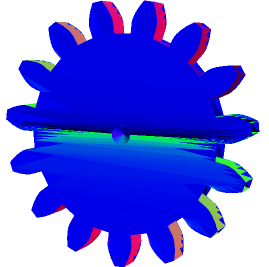
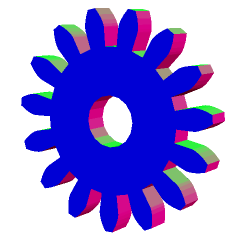
improved CSG examples

diff --git a/sources/ogl_csg1.js b/sources/ogl_csg1.js
@@ -66,49 +66,46 @@ e => a.intersect(b)</pre>
     let final = a.union(b);
 
     let positions = [];
-    let normals = [];
-    let uvs = [];
+    //let normals = [];
+    //let uvs = [];
 
     function csgshape() {
         positions = [];
-        normals = [];
-        uvs = [];
-        final.polygons.forEach(items => {
-            let last = null;
-            items.vertices.forEach((vertex, idx) => {
-                if (idx == 0) {
-                    last = vertex;
+        //normals = [];
+        //uvs = [];
+
+        final.polygons.forEach((p) => {
+            let numvertices = p.vertices.length;
+            for (let i = 0; i < numvertices - 2; i++) {
+
+                for (let v = 0; v < 3; v++) {
+                    let vv = v + ((v > 0) ? i : 0);
+                    let vertexpos = p.vertices[vv].pos;
+
+                    positions.push(vertexpos._x);
+                    positions.push(vertexpos._y);
+                    positions.push(vertexpos._z);
                 }
-                positions.push(vertex.pos.x);
-                positions.push(vertex.pos.y);
-                positions.push(vertex.pos.z);
-                if (vertex.normal) {
-                    normals.push(vertex.normal.x);
-                    normals.push(vertex.normal.y);
-                    normals.push(vertex.normal.z);
-                }
-            });
-            positions.push(last.pos.x);
-            positions.push(last.pos.y);
-            positions.push(last.pos.z);
-            if (last.normal) {
-                normals.push(last.normal.x);
-                normals.push(last.normal.y);
-                normals.push(last.normal.z);
             }
+
         });
     }
 
-    csgshape();
+    function regenerateShape() {
+        csgshape();
+        geometry = new Geometry(gl, {
+            position: {size: 3, data: new Float32Array(positions)},
+            //uv: {size: 2, data: new Float32Array(uvs)},
+            //normal: {size: 3, data: new Float32Array(normals)},
+        });
+        if (mesh != undefined) {
+            scene.removeChild(mesh);
+        }
+        mesh = new Mesh(gl, {mode: gl[settings.rendering], geometry, program});
+        mesh.setParent(scene);
+    }
 
-    geometry = new Geometry(gl, {
-        position: {size: 3, data: new Float32Array(positions)},
-        //uv: {size: 2, data: new Float32Array(uvs)},
-        normal: {size: 3, data: new Float32Array(normals)},
-    });
-
-    mesh = new Mesh(gl, {mode: gl[settings.rendering], geometry, program});
-    mesh.setParent(scene);
+    regenerateShape();
 
     /*
     a => only a
@@ -123,67 +120,27 @@ e => a.intersect(b)</pre>
         if (e.key == 'a' || e.key == 'A') {
             info2.innerHTML = 'Current key: "a" => only a';
             final = a;
-            csgshape();
-            geometry = new Geometry(gl, {
-                position: {size: 3, data: new Float32Array(positions)},
-                //uv: {size: 2, data: new Float32Array(uvs)},
-                normal: {size: 3, data: new Float32Array(normals)},
-            });
-            scene.removeChild(mesh);
-            mesh = new Mesh(gl, {mode: gl[settings.rendering], geometry, program});
-            mesh.setParent(scene);
+            regenerateShape();
         }
         if (e.key == 'b' || e.key == 'B') {
             info2.innerHTML = 'Current key: "b" => only b';
             final = b;
-            csgshape();
-            geometry = new Geometry(gl, {
-                position: {size: 3, data: new Float32Array(positions)},
-                //uv: {size: 2, data: new Float32Array(uvs)},
-                normal: {size: 3, data: new Float32Array(normals)},
-            });
-            scene.removeChild(mesh);
-            mesh = new Mesh(gl, {mode: gl[settings.rendering], geometry, program});
-            mesh.setParent(scene);
+            regenerateShape();
         }
         if (e.key == 'c' || e.key == 'C') {
             info2.innerHTML = 'Current key: "c" => a.union(b)';
             final = a.union(b);
-            csgshape();
-            geometry = new Geometry(gl, {
-                position: {size: 3, data: new Float32Array(positions)},
-                //uv: {size: 2, data: new Float32Array(uvs)},
-                normal: {size: 3, data: new Float32Array(normals)},
-            });
-            scene.removeChild(mesh);
-            mesh = new Mesh(gl, {mode: gl[settings.rendering], geometry, program});
-            mesh.setParent(scene);
+            regenerateShape();
         }
         if (e.key == 'd' || e.key == 'D') {
             info2.innerHTML = 'Current key: "d" => a.subtract(b)';
             final = a.subtract(b);
-            csgshape();
-            geometry = new Geometry(gl, {
-                position: {size: 3, data: new Float32Array(positions)},
-                //uv: {size: 2, data: new Float32Array(uvs)},
-                normal: {size: 3, data: new Float32Array(normals)},
-            });
-            scene.removeChild(mesh);
-            mesh = new Mesh(gl, {mode: gl[settings.rendering], geometry, program});
-            mesh.setParent(scene);
+            regenerateShape();
         }
         if (e.key == 'e' || e.key == 'E') {
             info2.innerHTML = 'Current key: "e" => a.intersect(b)';
             final = a.intersect(b);
-            csgshape();
-            geometry = new Geometry(gl, {
-                position: {size: 3, data: new Float32Array(positions)},
-                //uv: {size: 2, data: new Float32Array(uvs)},
-                normal: {size: 3, data: new Float32Array(normals)},
-            });
-            scene.removeChild(mesh);
-            mesh = new Mesh(gl, {mode: gl[settings.rendering], geometry, program});
-            mesh.setParent(scene);
+            regenerateShape();
         }
 
     }
@@ -191,7 +148,6 @@ e => a.intersect(b)</pre>
     document.addEventListener('keydown', keyPressed, false);
 
     const addGui = (obj) => {
-        console.log(obj);
         let gui = new dat.gui.GUI();
 
         let guiRndrMode = gui.add(obj, 'rendering', render_modes, obj.rendering).listen();  // none by default

diff --git a/sources/ogl_csg3.js b/sources/ogl_csg3.js
@@ -1,3 +1,7 @@
+/*
+   Gear generator : largely inspired by this example : https://joostn.github.io/OpenJsCad/
+ */
+
 import {Renderer, Camera, Transform, Texture, Program, Geometry, Mesh, Orbit, Vec3} from '../js/ogl/ogl.js';
 import {vertex100, fragment100, vertex300, fragment300, render_modes} from "../js/ogl_constants.js";
 import {CsgLibrary} from "../js/csg_library.js";
@@ -6,23 +10,25 @@ import {generateOutputFileBlobUrl, generateCSG, generateTableForm} from "../js/c
 
 function letsgo () {
 
+    const fan_preferred = false; // shape better rendered with false, set to true for an experimental rendering (good for TRIANGLE_FAN mode)
+
     let settings = {
-        rendering: 'TRIANGLE_FAN',  // better rendering mode for gear shape
-        isRotating: false
+        rendering: 'TRIANGLES',
+        isRotating: false,
     };
 
     let info1 = document.getElementById('info1');
     info1.innerHTML = `<h3>Constructive Solid Geometry (CSG) with the CSG component of <a href="https://en.wikibooks.org/wiki/OpenJSCAD_User_Guide" target="_blank">OpenJSCAD</a></h3>`;;
 
     let externalShape = CsgLibrary.gear_01;
-    let current_code = externalShape.code;
+
     let current3Dobject;
     let data_dictionary = generateTableForm('gearparams', externalShape.params);
 
     let positions = [];
     let normals = [];
     let uvs = [];
-    let final;
+
     let geometry, mesh;
 
     //let warning = document.getElementById('warning');
@@ -87,52 +93,33 @@ function letsgo () {
         positions = [];
         normals = [];
         uvs = [];
-        /*
-        current3Dobject.polygons.forEach(items => {
-            let last = null;
-            items.vertices.forEach((vertex, idx) => {
-                if (idx == 0) {
-                    last = vertex;
-                }
-                positions.push(vertex.pos.x);
-                positions.push(vertex.pos.y);
-                positions.push(vertex.pos.z);
-                if (vertex.normal) {
-                    normals.push(vertex.normal.x);
-                    normals.push(vertex.normal.y);
-                    normals.push(vertex.normal.z);
-                }
-            });
-            positions.push(last.pos.x);
-            positions.push(last.pos.y);
-            positions.push(last.pos.z);
-            if (last.normal) {
-                normals.push(last.normal.x);
-                normals.push(last.normal.y);
-                normals.push(last.normal.z);
-            }
-        });
-         */
 
         // voir aussi : CSG.prototype.toStlBinary  (dans csg.js)
         current3Dobject.fixTJunctions();
-        current3Dobject.polygons.map(function(p) {
-           var numvertices = p.vertices.length;
-           for (var i = 0; i < numvertices - 2; i++) {
-               var normal = p.plane.normal;
-               normals.push(normal._x);
-               normals.push(normal._y);
-               normals.push(normal._z);
-               positions.push(normal._x);
-               positions.push(normal._y);
-               positions.push(normal._z);
-               //var arindex = 3;
-               for (var v = 0; v < 3; v++) {
-                   var vv = v + ((v > 0) ? i : 0);
-                   var vertexpos = p.vertices[vv].pos;
-//                   normals.push(vertexpos._x);
-//                   normals.push(vertexpos._y);
-//                   normals.push(vertexpos._z);
+        current3Dobject.polygons.forEach((p) => {
+           let numvertices = p.vertices.length;
+           for (let i = 0; i < numvertices - 2; i++) {
+
+               if (fan_preferred) {
+                   let normal = p.plane.normal;
+                   normals.push(normal._x);
+                   normals.push(normal._y);
+                   normals.push(normal._z);
+                   positions.push(normal._x);
+                   positions.push(normal._y);
+                   positions.push(normal._z);
+               }
+
+               for (let v = 0; v < 3; v++) {
+                   let vv = v + ((v > 0) ? i : 0);
+                   let vertexpos = p.vertices[vv].pos;
+
+                   if (fan_preferred) {
+                       normals.push(vertexpos._x);
+                       normals.push(vertexpos._y);
+                       normals.push(vertexpos._z);
+                   }
+
                    positions.push(vertexpos._x);
                    positions.push(vertexpos._y);
                    positions.push(vertexpos._z);
@@ -144,7 +131,6 @@ function letsgo () {
     }
 
     const addGui = (obj) => {
-        console.log(obj);
         let gui = new dat.gui.GUI();
 
         let guiRndrMode = gui.add(obj, 'rendering', render_modes, obj.rendering).listen();  // none by default

diff --git a/sources/ogl_csg2.js b/sources/ogl_csg2.js
@@ -18,9 +18,8 @@ function letsgo () {
     let current3Dobject;
 
     let positions = [];
-    let normals = [];
-    let uvs = [];
-    let final;
+    //let normals = [];
+    //let uvs = [];
     let geometry, mesh;
 
     let textarea = document.getElementById('csgcode');
@@ -82,53 +81,18 @@ function letsgo () {
 
     function csgshape() {
         positions = [];
-        normals = [];
-        uvs = [];
-        /*
-        current3Dobject.polygons.forEach(items => {
-            let last = null;
-            items.vertices.forEach((vertex, idx) => {
-                if (idx == 0) {
-                    last = vertex;
-                }
-                positions.push(vertex.pos.x);
-                positions.push(vertex.pos.y);
-                positions.push(vertex.pos.z);
-                if (vertex.normal) {
-                    normals.push(vertex.normal.x);
-                    normals.push(vertex.normal.y);
-                    normals.push(vertex.normal.z);
-                }
-            });
-            positions.push(last.pos.x);
-            positions.push(last.pos.y);
-            positions.push(last.pos.z);
-            if (last.normal) {
-                normals.push(last.normal.x);
-                normals.push(last.normal.y);
-                normals.push(last.normal.z);
-            }
-        });
+        //normals = [];
+        //uvs = [];
 
-         */
         current3Dobject.fixTJunctions();
-        current3Dobject.polygons.map(function(p) {
-            var numvertices = p.vertices.length;
-            for (var i = 0; i < numvertices - 2; i++) {
-                var normal = p.plane.normal;
-                normals.push(normal._x);
-                normals.push(normal._y);
-                normals.push(normal._z);
-                positions.push(normal._x);
-                positions.push(normal._y);
-                positions.push(normal._z);
-                //var arindex = 3;
-                for (var v = 0; v < 3; v++) {
-                    var vv = v + ((v > 0) ? i : 0);
-                    var vertexpos = p.vertices[vv].pos;
-//                   normals.push(vertexpos._x);
-//                   normals.push(vertexpos._y);
-//                   normals.push(vertexpos._z);
+        current3Dobject.polygons.forEach((p) => {
+            let numvertices = p.vertices.length;
+            for (let i = 0; i < numvertices - 2; i++) {
+
+                for (let v = 0; v < 3; v++) {
+                    let vv = v + ((v > 0) ? i : 0);
+                    let vertexpos = p.vertices[vv].pos;
+
                     positions.push(vertexpos._x);
                     positions.push(vertexpos._y);
                     positions.push(vertexpos._z);
@@ -146,7 +110,7 @@ function letsgo () {
             geometry = new Geometry(gl, {
                 position: {size: 3, data: new Float32Array(positions)},
                 //uv: {size: 2, data: new Float32Array(uvs)},
-                normal: {size: 3, data: new Float32Array(normals)},
+                //normal: {size: 3, data: new Float32Array(normals)},
             });
             if (mesh != undefined) {
                 scene.removeChild(mesh);
@@ -160,7 +124,6 @@ function letsgo () {
     submit.click();
 
     const addGui = (obj) => {
-        console.log(obj);
         let gui = new dat.gui.GUI();
 
         let guiRndrMode = gui.add(obj, 'rendering', render_modes, obj.rendering).listen();  // none by default
